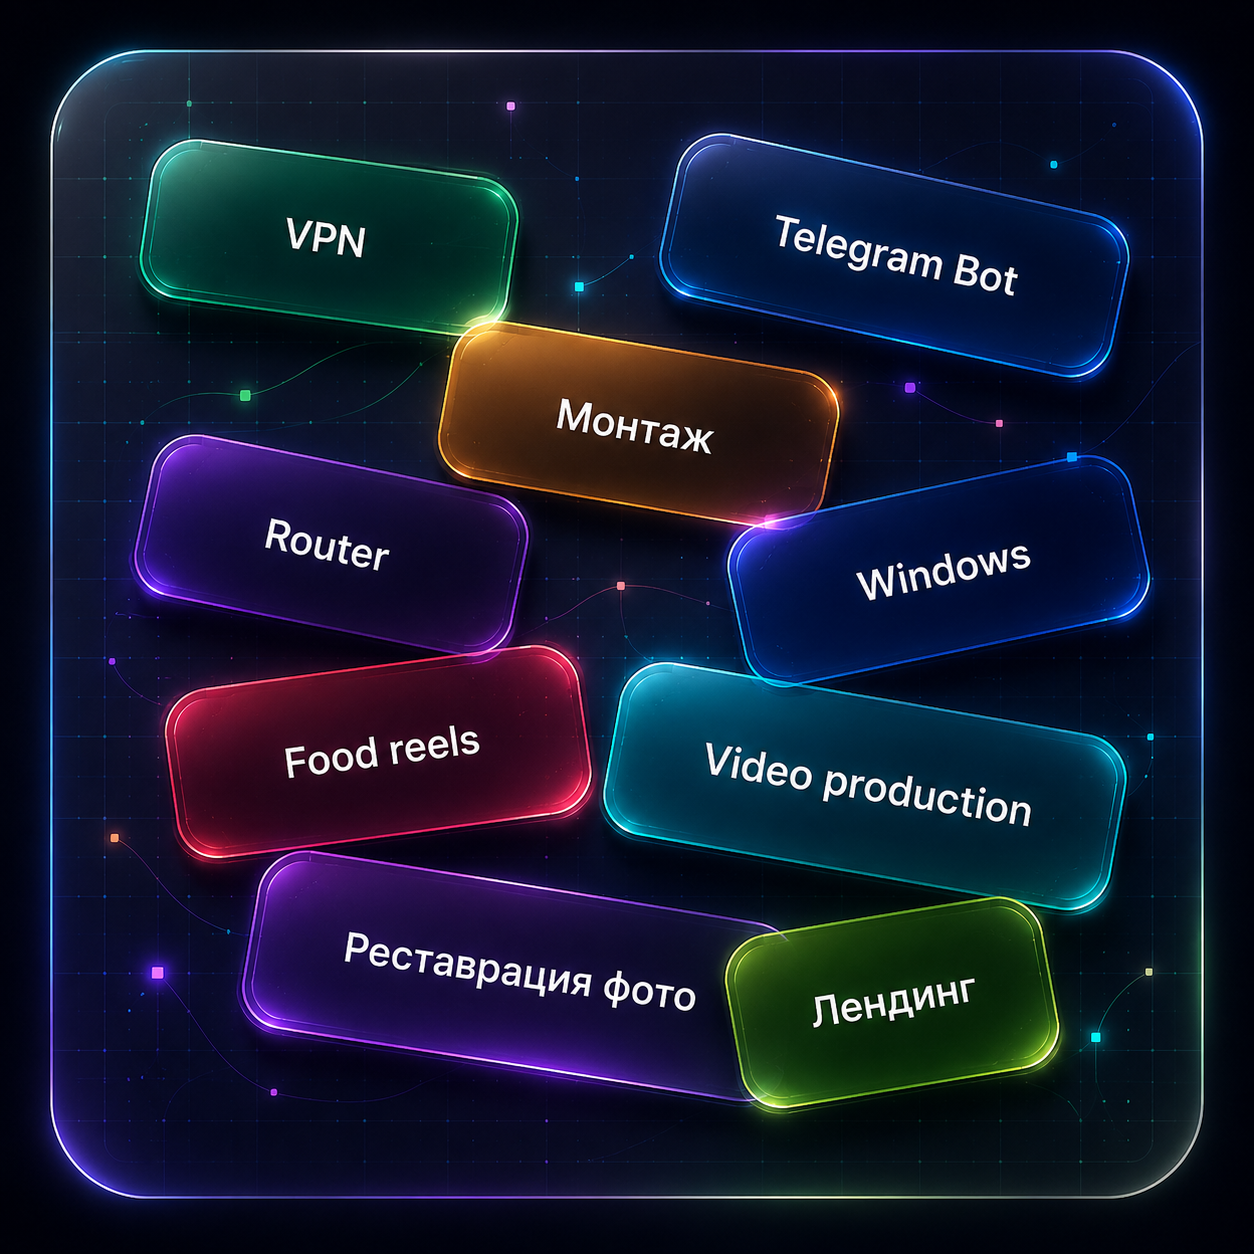
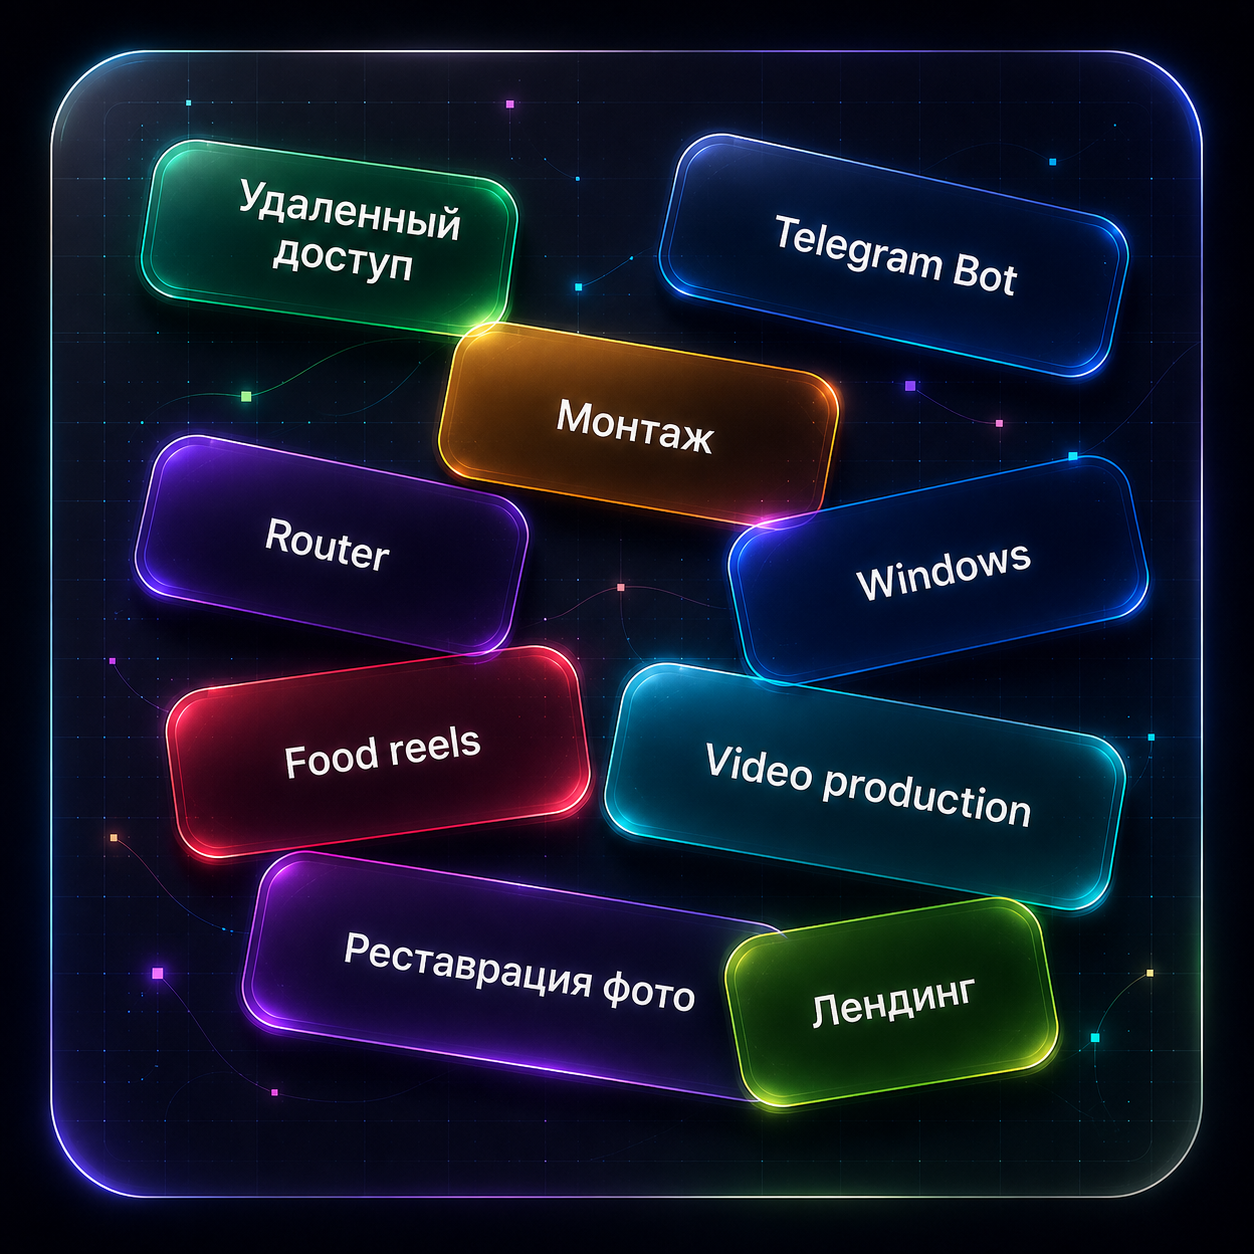
Replace VPN wording with remote access

diff --git a/frontend/index.html b/frontend/index.html
@@ -30,10 +30,10 @@
       <div class="hero-shade" aria-hidden="true"></div>
       <div class="hero-inner">
         <div class="hero-content">
-          <p class="eyebrow hero-eyebrow">Системное администрирование · VPN · AI-визуал · монтаж<br>лендинги · боты · видео по сценарию</p>
+          <p class="eyebrow hero-eyebrow">Системное администрирование · удаленный доступ · AI-визуал · монтаж<br>лендинги · боты · видео по сценарию</p>
           <h1 class="hero-title"><span class="metal-word">Echo Lab Studio</span></h1>
           <p class="hero-subtitle">Помогаю с техникой, сайтами и визуалом без лишней сложности</p>
-          <p class="hero-text">Настрою интернет, роутер, VPN, Windows и рабочие программы, чтобы всё стабильно работало дома или в офисе. Сделаю простой сайт или лендинг с заявками, подготовлю фото, AI-видео, монтаж и визуальное оформление для проекта, услуги или соцсетей.</p>
+          <p class="hero-text">Настрою интернет, роутер, канал и удаленный доступ, Windows и рабочие программы, чтобы всё стабильно работало дома или в офисе. Сделаю простой сайт или лендинг с заявками, подготовлю фото, AI-видео, монтаж и визуальное оформление для проекта, услуги или соцсетей.</p>
           <div class="hero-actions">
             <a class="button primary" href="#services">Смотреть услуги</a>
             <a class="button secondary" href="#contacts">Оставить заявку</a>
@@ -50,7 +50,7 @@
       <div class="section-head">
         <p class="eyebrow">Примеры работ</p>
         <h2>Проекты и кейсы Echo Lab Studio</h2>
-        <p class="section-lead">Небольшие реальные проекты: сайты, VPN, AI-видео, визуальные сцены, Telegram-интеграции и монтаж.</p>
+        <p class="section-lead">Небольшие реальные проекты: сайты, настройка канала и удаленного доступа, AI-видео, визуальные сцены, Telegram-интеграции и монтаж.</p>
       </div>
       <div class="card-grid services-grid">
         <article class="card service-card case-card">
@@ -91,10 +91,10 @@
         </article>
         <article class="card service-card case-card">
           <div class="case-number">04</div>
-          <h3>Small Office Setup / VPN</h3>
-          <p>Настройка небольших офисных и домашних сетей: роутеры, VPN, удалённый доступ, рабочие места, периферия, маршрутизация и стабильное подключение для ежедневной работы.</p>
+          <h3>Настройка канала и удаленного доступа</h3>
+          <p>Настройка небольших офисных и домашних сетей: роутеры, канал связи, удаленный доступ, рабочие места, периферия, маршрутизация и стабильное подключение для ежедневной работы.</p>
           <div class="tags">
-            <span>Small Office</span><span>VPN</span><span>Router</span><span>Remote Access</span><span>Routing</span><span>Peripheral</span><span>Windows</span>
+            <span>Small Office</span><span>Channel Setup</span><span>Router</span><span>Remote Access</span><span>Routing</span><span>Peripheral</span><span>Windows</span>
           </div>
           <div class="case-actions">
             <a class="case-link primary-link" href="#contacts">Смотреть <span aria-hidden="true">↗</span></a>
@@ -217,7 +217,7 @@
         <h2>Технический подход плюс визуальная практика</h2>
       </div>
       <div class="about-block card">
-        <p>Я системный администратор с сильным уклоном в production и AI pipeline. Работаю с Windows-инфраструктурой, сетями, роутерами, VPN, серверной логикой, сайтами и Telegram-интеграциями. Параллельно собираю визуальные проекты: генерирую фрагменты видео по сценарию, работаю в AI-инструментах, реставрирую фото, делаю брендовые ролики, монтаж, визуальную подачу и production pipeline от идеи до финальной сборки.</p>
+        <p>Я системный администратор с сильным уклоном в production и AI pipeline. Работаю с Windows-инфраструктурой, сетями, роутерами, настройкой канала и удаленного доступа, серверной логикой, сайтами и Telegram-интеграциями. Параллельно собираю визуальные проекты: генерирую фрагменты видео по сценарию, работаю в AI-инструментах, реставрирую фото, делаю брендовые ролики, монтаж, визуальную подачу и production pipeline от идеи до финальной сборки.</p>
       </div>
     </section>
 
@@ -226,7 +226,7 @@
         <div class="contact-copy">
           <p class="eyebrow">Заявка</p>
           <h2>Расскажите, что нужно сделать</h2>
-          <p>Напишите, что нужно сделать: сайт, VPN, роутер, Telegram-бот, AI-видео, монтаж или консультация по задаче.</p>
+          <p>Напишите, что нужно сделать: сайт, настройка канала и удаленного доступа, роутер, Telegram-бот, AI-видео, монтаж или консультация по задаче.</p>
         </div>
         <form class="contact-form" id="requestForm">
           <label>

diff --git a/frontend/script.js b/frontend/script.js
@@ -331,7 +331,7 @@ initHeroMatrix();
 
 if (hero && matrixCanvas && !document.querySelector(".hero-matrix")) {
   const ctx = matrixCanvas.getContext("2d");
-  const symbols = ["0101", "VPN", "AI", "NET", "SYS", "RENDER", "ROUTE", "1010", "IO"];
+  const symbols = ["0101", "LINK", "AI", "NET", "SYS", "RENDER", "ROUTE", "1010", "IO"];
   let columns = [];
   let fontSize = 14;
   let frame = 0;
@@ -408,8 +408,8 @@ if (hero && matrixCanvas && !document.querySelector(".hero-matrix")) {
 
 if (pageMatrixCanvas) {
   const pageCtx = pageMatrixCanvas.getContext("2d");
-  const pageSymbols = ["0", "1", "SYS", "VPN", "AI", "ROUTE", "RENDER", "NET", "ACCESS", "MEDIA"];
-  const brickLabels = ["0101", "VPN", "SYS", "ROUTE", "AI", "RENDER", "NET", "MEDIA"];
+  const pageSymbols = ["0", "1", "SYS", "LINK", "AI", "ROUTE", "RENDER", "NET", "ACCESS", "MEDIA"];
+  const brickLabels = ["0101", "LINK", "SYS", "ROUTE", "AI", "RENDER", "NET", "MEDIA"];
   let pageColumns = [];
   let digitalBricks = [];
   let pageFrame = 0;

diff --git a/frontend/styles.css b/frontend/styles.css
@@ -913,7 +913,7 @@ h3 {
   }
 }
 
-.sticker-vpn {
+.sticker-access {
   left: 34px;
   top: 58px;
   z-index: 4;
@@ -2275,7 +2275,7 @@ textarea:focus {
     font-size: 13px;
   }
 
-  .sticker-vpn,
+  .sticker-access,
   .sticker-telegram,
   .sticker-router,
   .sticker-windows,

diff --git a/README.md b/README.md
@@ -47,7 +47,7 @@ backend/.env.example
 
 3. Чем могу помочь:
 4 карточки:
-— Настройка серверов и инфраструктуры: VPN, Windows/Linux, сети, Nginx.
+— Настройка серверов и инфраструктуры: канал, удаленный доступ, Windows/Linux, сети, Nginx.
 — Автоматизация задач: n8n, скрипты, Telegram-боты, Git.
 — AI-визуал и видео: Krea, Kling, Runway, Hailuo, ElevenLabs.
 — Лендинги и простые сайты: структура, дизайн, форма, публикация на сервере.
